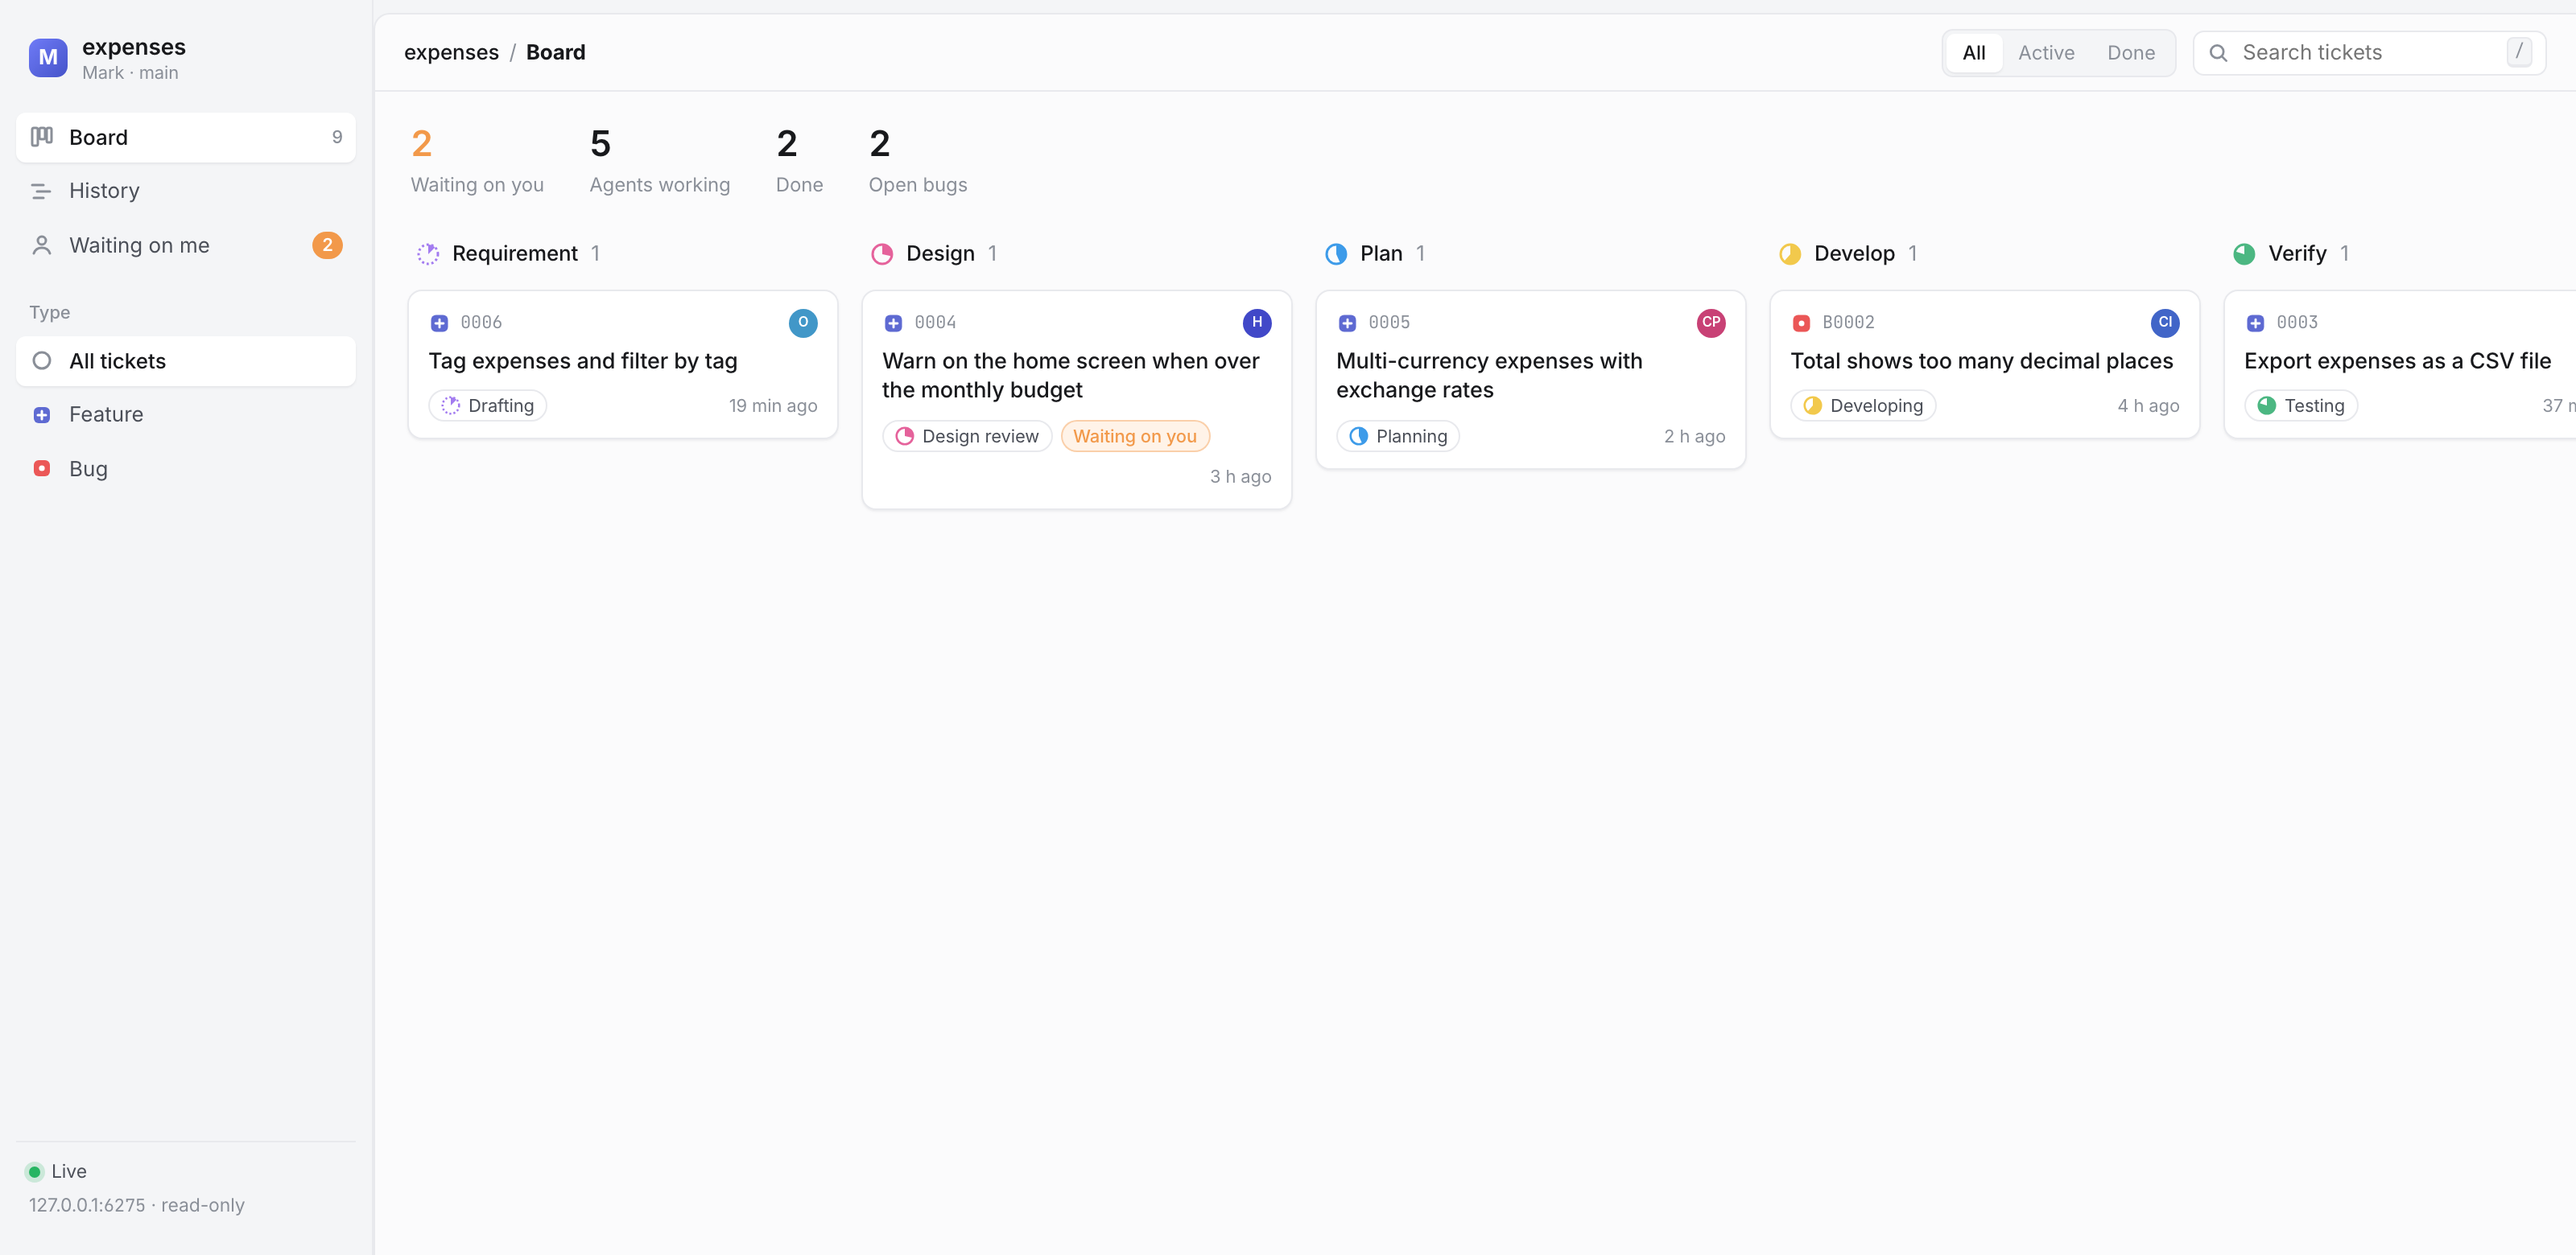
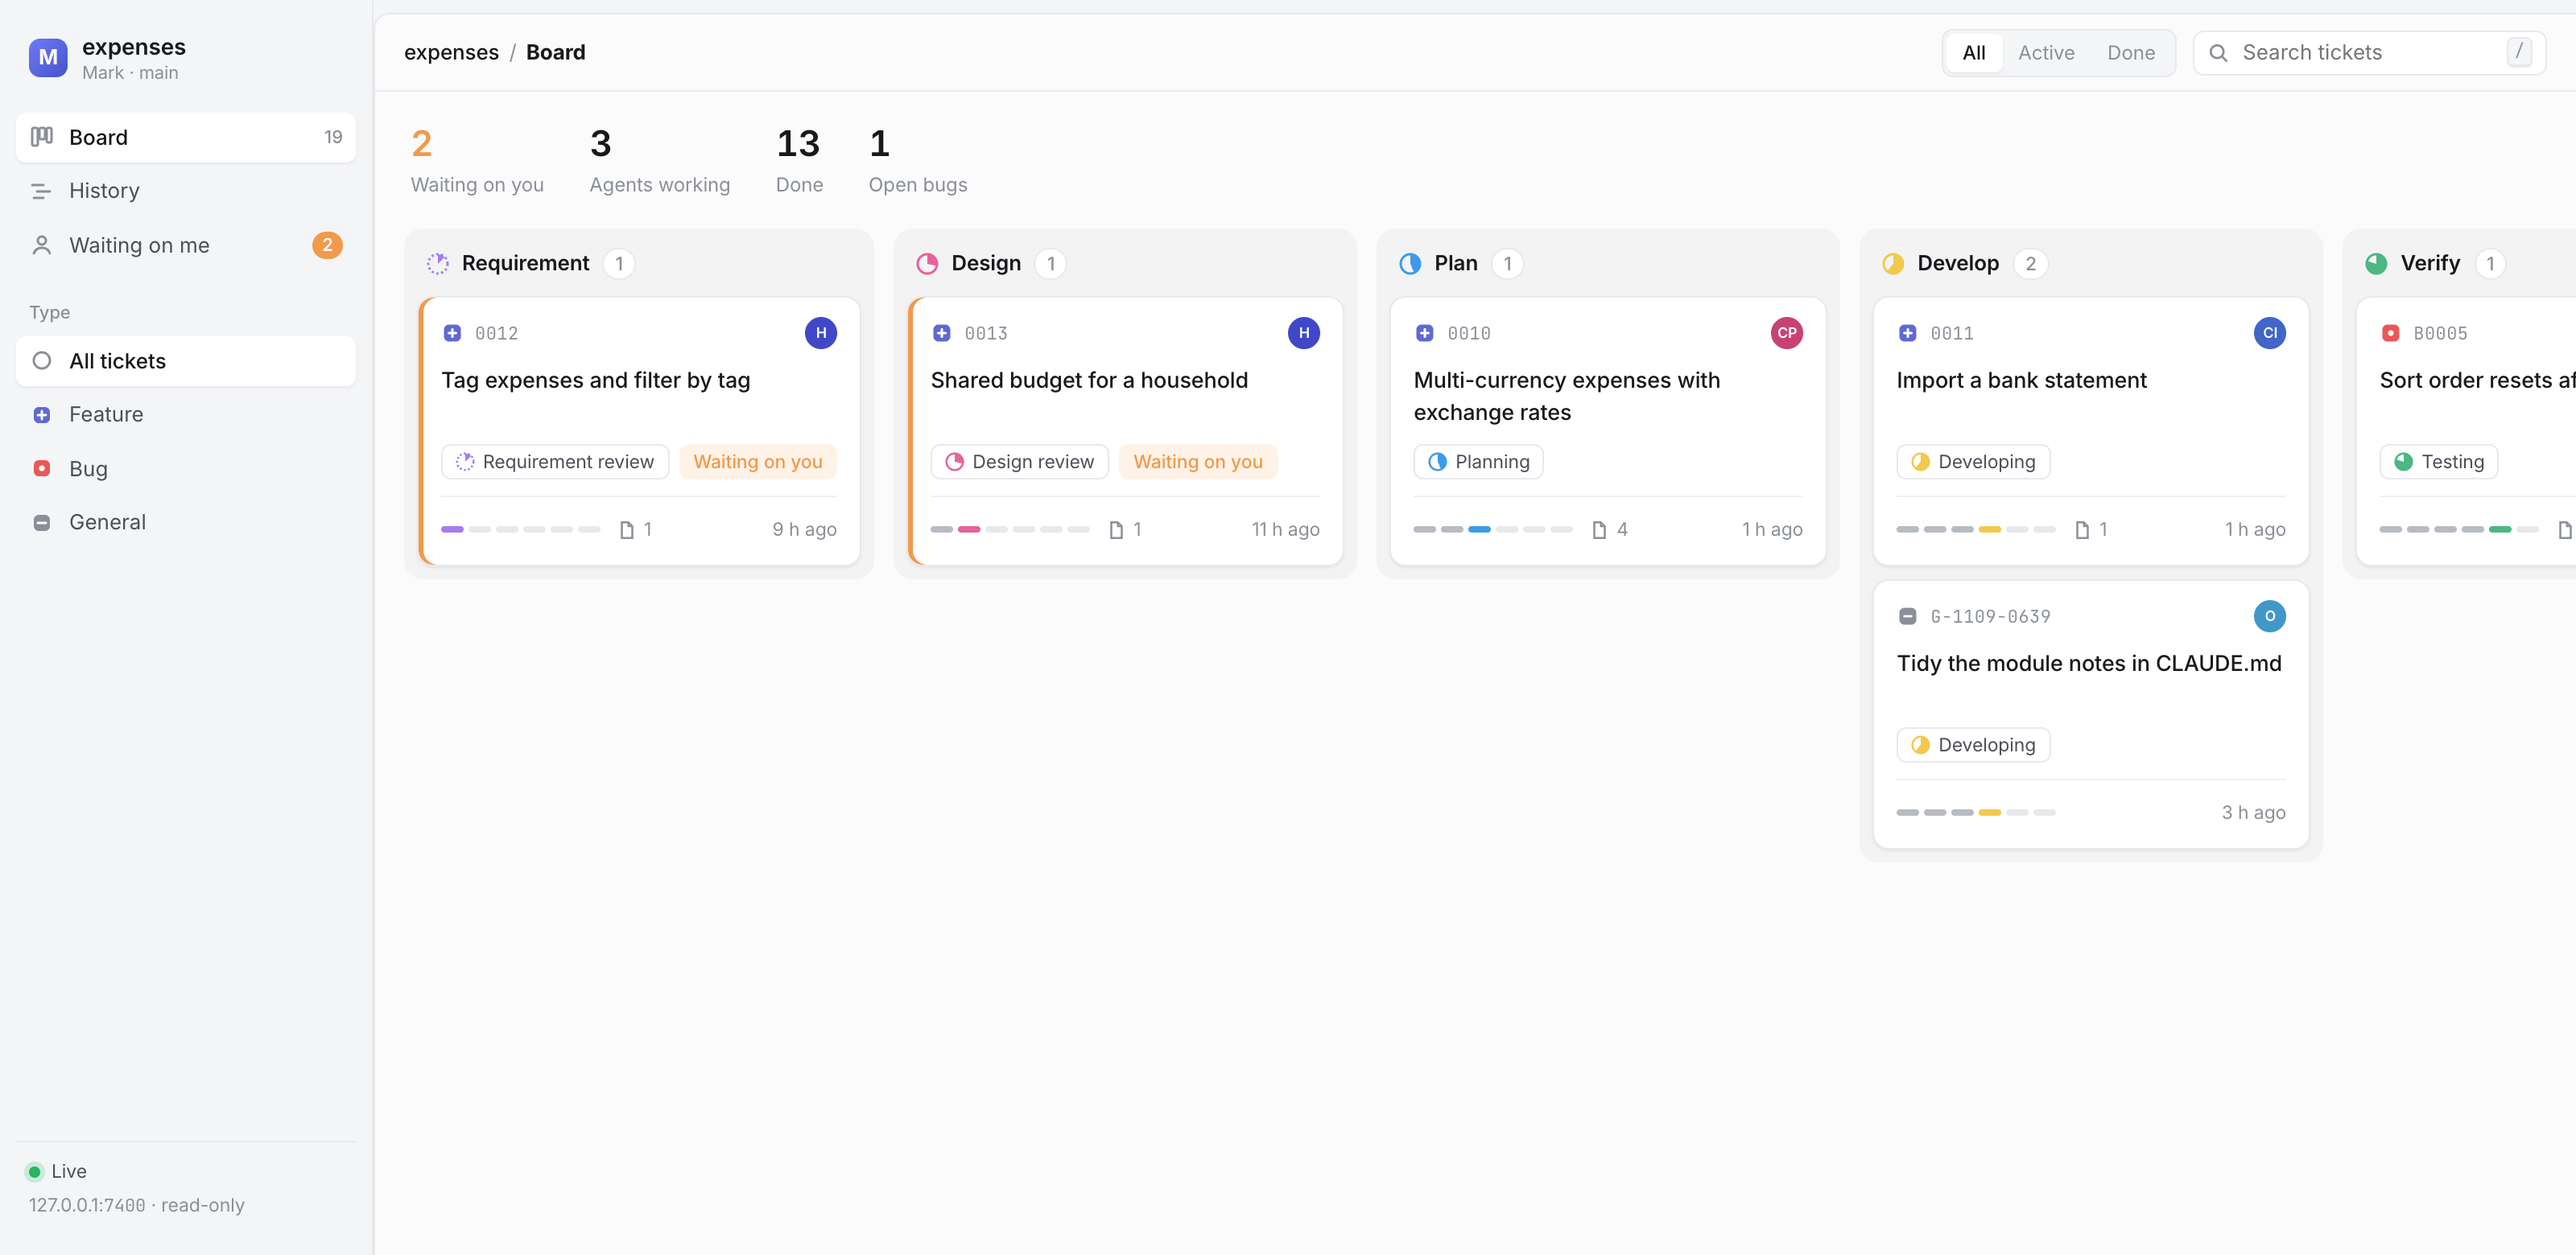
README: retake board screenshots for v0.46; board says "1 ticket"
The board screenshots showed the pre-0.46 look. They are retaken in both
locales, and the history section now shows both tabs: the timeline and a
new durations screenshot.

The durations view grouped days as "1 tickets"; a day with one ticket now
reads "1 ticket" ("1 张").

diff --git a/plugins/mark/lib/mark/board.html b/plugins/mark/lib/mark/board.html
@@ -288,7 +288,7 @@ const I18N={
   loadFail:"Could not load this file.",docs:"Documents",less:"Show less",showAll:"Show all {n}",days:" d",
   tlGantt:"Timeline",tlDur:"Durations",zHour:"Hour",zDay:"Day",zWeek:"Week",zMonth:"Month",toNow:"Jump to now",follow:"Only tickets in view",panHint:"Drag to pan · ⌘/Ctrl + scroll to zoom",
   hatch:"Striped: waiting on you",noneInView:"No tickets in this stretch. Drag or zoom out.",durHint:"Each bar starts at its own ticket's start: how long it took and where the time went.",
-  median:"Median time",humanShare:"of the time waiting on you",avg:"avg",titleCol:"Title",today:"Today",yesterday:"Yesterday",nTickets:"{n} tickets",ago:{s:"just now",m:"{n} min ago",h:"{n} h ago",d:"{n} d ago"},min:"min",waiting:"Waiting on you"},
+  median:"Median time",humanShare:"of the time waiting on you",avg:"avg",titleCol:"Title",today:"Today",yesterday:"Yesterday",nTickets:"{n} tickets",nTicket:"1 ticket",ago:{s:"just now",m:"{n} min ago",h:"{n} h ago",d:"{n} d ago"},min:"min",waiting:"Waiting on you"},
  "zh-CN":{board:"看板",timeline:"流转历史",human:"等我处理",kind:"类型",allTickets:"全部工单",readonly:"只读",live:"实时同步中",offline:"重新连接中…",all:"全部",active:"进行中",done:"已完成",search:"搜索工单",
   sWait:"等你处理",sAgent:"Agent 进行中",sDone:"已完成",sBugs:"未关闭 Bug",empty:"暂无工单",noTickets:"还没有工单。用这个命令建一张：",ticket:"工单",now:"现在",
   props:"属性",status:"状态",owner:"负责",type:"类型",branch:"分支",worktree:"工作区",created:"创建",elapsed:"耗时",moves:"次流转",hours:" 小时",
@@ -298,7 +298,7 @@ const I18N={
   loadFail:"文件加载失败。",docs:"文档",less:"收起",showAll:"显示全部 {n} 张",days:" 天",
   tlGantt:"时间轴",tlDur:"耗时",zHour:"小时",zDay:"天",zWeek:"周",zMonth:"月",toNow:"回到现在",follow:"只列出视口内的工单",panHint:"拖拽平移 · ⌘/Ctrl + 滚轮缩放",
   hatch:"斜纹 = 等你",noneInView:"这段时间没有工单，拖动或缩小看看",durHint:"每张单从它自己的开始时间算起：用了多久、时间花在哪个阶段。",
-  median:"中位耗时",humanShare:"时间花在等你",avg:"平均",titleCol:"标题",today:"今天",yesterday:"昨天",nTickets:"{n} 张",ago:{s:"刚刚",m:"{n} 分钟前",h:"{n} 小时前",d:"{n} 天前"},min:" 分钟",waiting:"等你处理"}};
+  median:"中位耗时",humanShare:"时间花在等你",avg:"平均",titleCol:"标题",today:"今天",yesterday:"昨天",nTickets:"{n} 张",nTicket:"1 张",ago:{s:"刚刚",m:"{n} 分钟前",h:"{n} 小时前",d:"{n} 天前"},min:" 分钟",waiting:"等你处理"}};
 const LABELS={
  en:{drafting:"Drafting","review-requirement":"Requirement review",designing:"Designing","review-design":"Design review",planning:"Planning","review-plan":"Plan review",developing:"Developing","failed-impl":"Rework","design-qa":"Design QA",testing:"Testing","pending-merge":"Pending merge","blocked-plan":"Blocked: plan","blocked-spec":"Blocked: design","blocked-unclear":"Needs answer",passed:"Passed",superseded:"Superseded"},
  "zh-CN":{drafting:"起草需求","review-requirement":"需求评审",designing:"设计中","review-design":"设计评审",planning:"方案中","review-plan":"方案评审",developing:"开发中","failed-impl":"返工中","design-qa":"设计验收",testing:"测试中","pending-merge":"待合并","blocked-plan":"方案阻塞","blocked-spec":"设计阻塞","blocked-unclear":"需澄清",passed:"已完成",superseded:"已并入他单"}};
@@ -497,7 +497,7 @@ function durView(v){
    <div><div class="stack">${per.filter(x=>x.ms).map(x=>`<i style="flex:${x.ms};background:var(${x.s.c})" data-tip="${esc(`<b>${esc(x.s.n[L]||x.s.n.en)}</b><small>${tr("avg")} ${dur(x.ms)}</small>`)}"></i>`).join("")}</div>
    <div class="sumlg">${per.filter(x=>x.ms).map(x=>`<span><i style="background:var(${x.s.c})"></i>${esc(x.s.n[L]||x.s.n.en)} ${dur(x.ms)}</span>`).join("")}</div></div></div>`:""}
   <div class="dl"><div class="dh"><span>${tr("ticket")}</span><span>${tr("titleCol")}</span><span>${tr("status")}</span><div class="dax">${Array.from({length:Math.floor(max/tick)+1},(_,i)=>`<span style="left:${pct(i*tick)}%">${i?dur(i*tick):"0"}</span>`).join("")}</div><span style="text-align:right">${tr("elapsed")}</span></div>
-  ${groups.map(g=>`<div class="dg">${g.k===today?tr("today"):g.k===yest?tr("yesterday"):esc(day(g.d,{month:"short",day:"numeric"}))}<small>${esc(day(g.d,{weekday:"short"}))} · ${tr("nTickets").replace("{n}",g.rows.length)}</small></div>`+g.rows.map(({t,segs,a,b,live})=>
+  ${groups.map(g=>`<div class="dg">${g.k===today?tr("today"):g.k===yest?tr("yesterday"):esc(day(g.d,{month:"short",day:"numeric"}))}<small>${esc(day(g.d,{weekday:"short"}))} · ${g.rows.length===1?tr("nTicket"):tr("nTickets").replace("{n}",g.rows.length)}</small></div>`+g.rows.map(({t,segs,a,b,live})=>
    `<div class="dr ${live?"running":""}" data-open="${esc(t.id)}" data-tab="__hist"><span class="idc">${kindIcon(t.kind)}${short(t.id)}</span><span class="t" title="${esc(t.desc||t.id)}">${esc(t.desc||t.id)}</span><span class="tag">${icon(t.status,12)}${esc(label(t.status))}</span>
     <div class="dtrack" style="--tick:${pct(tick)}%"><div class="dbar ${b-a>max?"over":""}" style="width:${Math.min(pct(b-a),100)}%">${segs.map(s=>`<i class="${HUMAN_ST(s.status)?"hatch":""}" style="flex:${Math.max(s.b-s.a,1)};${segStyle(s)}" data-tip="${segTip(t,s)}"></i>`).join("")}</div></div>
     <span class="tot">${dur(b-a)}</span></div>`).join("")).join("")}</div></div>`}

diff --git a/README.md b/README.md
@@ -117,7 +117,9 @@ The history view has two tabs. Timeline puts every move on a real time axis you 
 starts each ticket at its own start, so you see how long each took, where the time went, and how
 much of it waited on you.
 
-![Status history of every ticket on a timeline](docs/images/board-history-en.png)
+![The timeline: every move on a real time axis](docs/images/board-history-en.png)
+
+![Durations: how long each ticket took and where the time went](docs/images/board-durations-en.png)
 
 ## How it works
 
